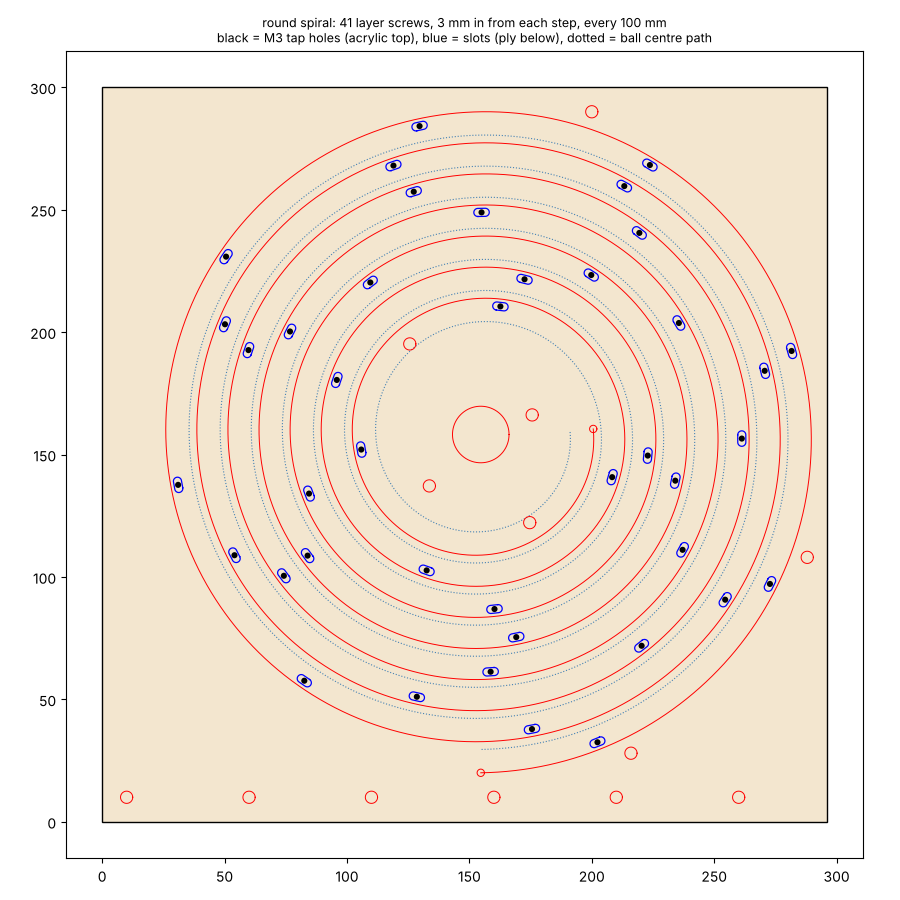
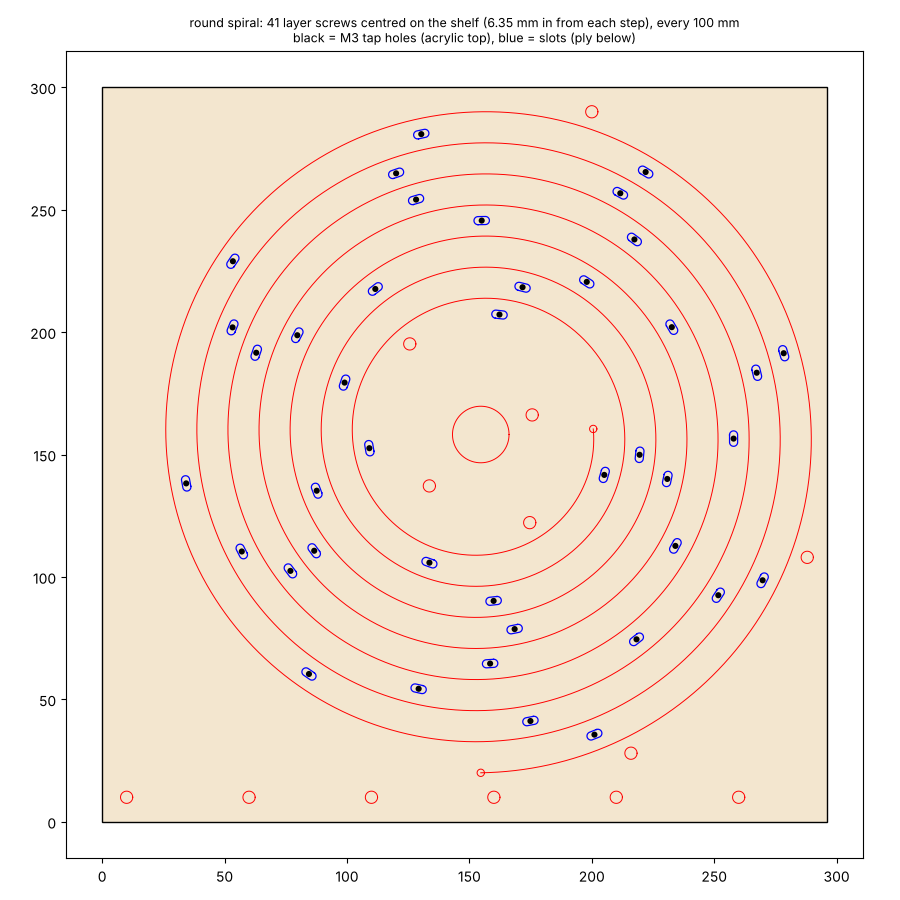
spiral layer screws centred on the shelf (6.35 in from the step)
Claude-Session: https://claude.ai/code/session_01LQy87QnU21cWEAk5CN6jGY

diff --git a/marbles/clock/spiral_run.py b/marbles/clock/spiral_run.py
@@ -311,7 +311,7 @@ def entry_guide(cut, cut_t):
     return g, [(q.x, q.y) for q in picked]
 
 
-SCREW_IN = 3.0          # layer screws: centred this far in from the step (each lap's outer cut), toward the centre
+SCREW_IN = PITCH / 2    # layer screws: centred on the shelf (half a pitch in from the step); they come up from below and stop under the top surface
 SCREW_STEP = 100.0      # ... every this far along the lap (~8-9 on the outer lap, ~3-4 on the inner)
 PILOT_D = 2.5           # M3 tap drill (tapped top layer)
 SLOT_W, SLOT_TRAVEL = 3.3, 3.0   # clearance slots in the other layers, along the lap: 3.3 wide, 3 of travel (6.3 long)

diff --git a/marbles/clock/CUT_LIST.md b/marbles/clock/CUT_LIST.md
@@ -46,7 +46,7 @@ the new batch).
   supports.
 - [ ] **Acrylic spiral, round**, with a 20 mm entry run on its left (from a 400 × 300 black sheet). All `acrylic3`, F150 × 1;
       drawing `spiral_run_round.png`:
-  - Layered and screwed version (the ball rolls on the acrylic top; 41 M3 spots, 3 mm in from each step, every 100 mm: 8 per outer lap down to 3 on the inner):
+  - Layered and screwed version (the ball rolls on the acrylic top; 41 M3 spots centred on the shelf (6.35 mm in from each step), every 100 mm: 8 per outer lap down to 3 on the inner):
     - `spiral_run_round_pilot_296x290_acrylic3` × 1 (top): 2.5 mm pilot holes, tap M3 by hand. About 32 min.
     - `spiral_run_round_slot_296x290_ply3` × 1 or 2 (below): 3.3 × 6.3 mm slots along the lap. About 15 min each.
     - Screws go in from underneath. Length = ply layers + 2–2.7 mm into the acrylic:
